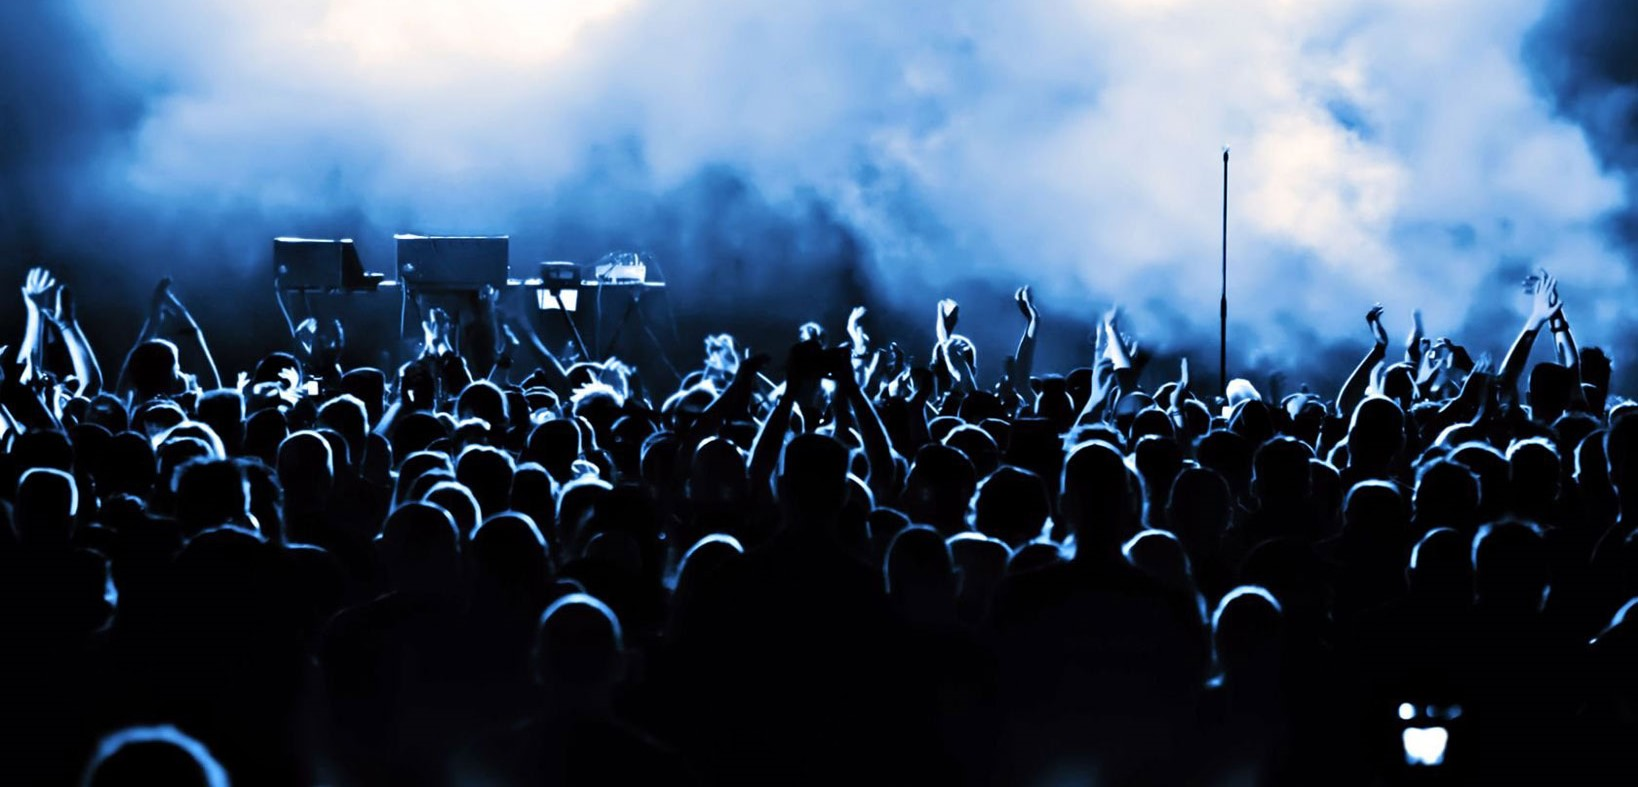
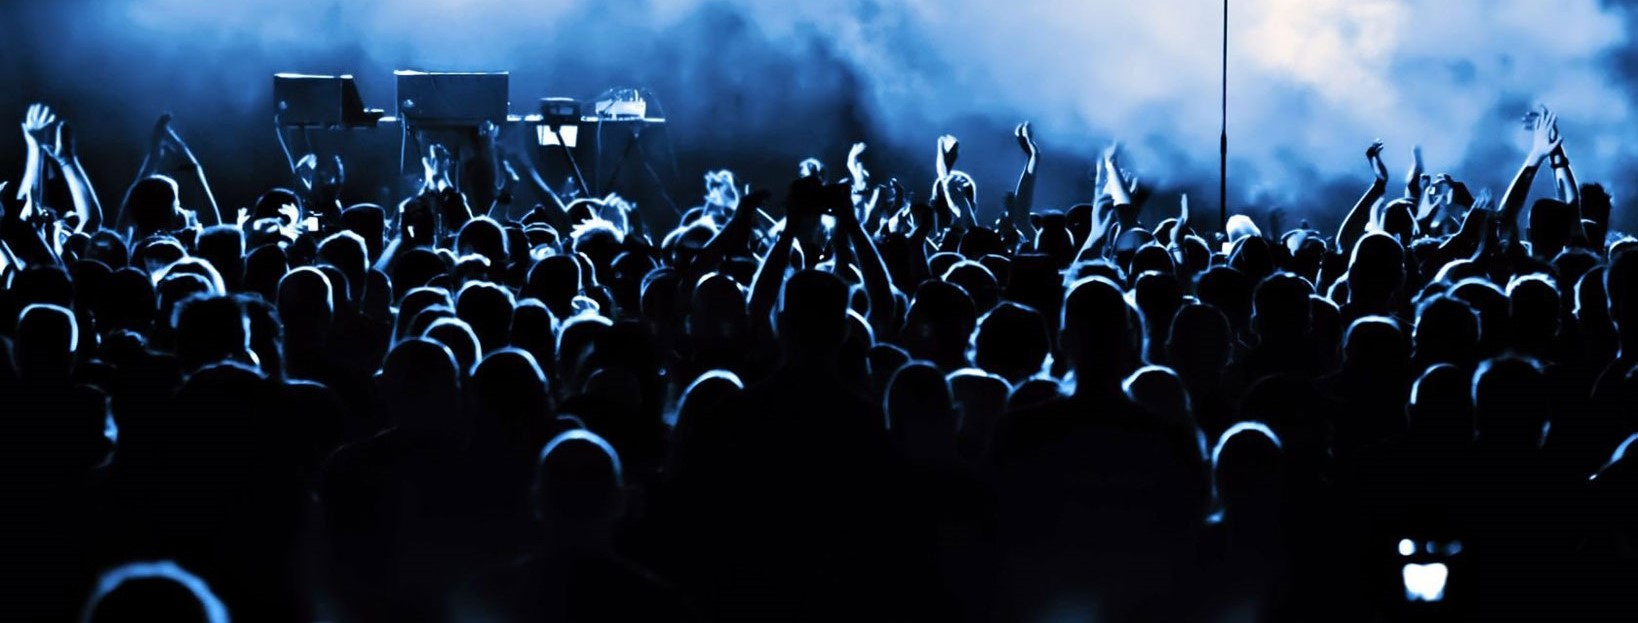
styling index page

diff --git a/index2.html b/index2.html
@@ -13,7 +13,7 @@
     <title>The Monkees</title>
 </head>
 
-<body class="background-index">
+<body>
     <header>
         <div class="container-fluid">
             <nav class="navigation">
@@ -36,18 +36,26 @@
                 </div>
             </nav>
         </div>
+        <div class="background-index">
+            <div class="col-12 band">
+                <img src="assets/images/index/logo.png" height=150px>
+            </div>
+        </div>
     </header>
     <section class="coteiner-fluid">
         <div class="container-fluid">
-            <div class="row no-gutters">
-                <div class="col-12 band"></div>
-            </div>
             <div class="row  no-gutters about">
                 <div class="col-12 col-md-5 bandimg"></div>
                 <div class="col-12 col-md-7 col-xl-5 about1">
                     <p><span>The Monkees</span></p>
-                    <p>We are an American Rock and Pop band originally active between 1966 and 1971, with reunion albums and tours in the decades that followed. We ware found in Los Angeles in 1965 by Bob Rafelson and Bert Schneider specifically for the
-                        American television series The Monkees, which aired from 1966 to 1968. Our music was initially supervised by producer Don Kirshner, backed by the songwriting duo of Tommy Boyce and Bobby Hart.</p>
+                    <p>We are an American Rock and Pop band originally active 
+                    between 1966 and 1971, with reunion albums and tours in 
+                    the decades that followed. We ware found in Los Angeles 
+                    in 1965 by Bob Rafelson and Bert Schneider specifically 
+                    for the American television series The Monkees, which 
+                    aired from 1966 to 1968. Our music was initially supervised 
+                    by producer Don Kirshner, backed by the songwriting duo of 
+                    Tommy Boyce and Bobby Hart.</p>
                 </div>
                 <div class="col-xl-2"></div>
             </div>
@@ -78,7 +86,7 @@
            
             <div class="row apps no-gutters">
                 <div class="col-6 col-sm-3">
-                    <img src="assets/images/index/android.png" width=80px height=80px>
+                    <a href="https://play.google.com/store/apps/details?id=net.monkees.monkees&hl=en" target="_blanc"><img src="assets/images/index/android.png" alt="Android Logo" width=80px height=80px></a>
                 </div>
                 <div class="d-none d-sm-block col-sm-6 appdesc">
                     <p>The official Monkees app gives you the latest
@@ -87,7 +95,7 @@
                     Facebook feed, tour dates and more.</p>
                 </div>
                 <div class="col-6 col-sm-3">
-                    <img src="assets/images/index/apple.png" width=80px height=80px>
+                    <a href="https://itunes.apple.com/ie/app/the-monkees/id604199445?mt=8" target="_blanc"><img src="assets/images/index/apple.png" alt="Apple Logo" width=80px height=80px></a>
                 </div>
             </div> 
             <div class="row no-gutters">

diff --git a/assets/css/style2.css b/assets/css/style2.css
@@ -2,6 +2,9 @@
 
 
 /*----------------------------------------------------------------------HEADER*/
+header{
+    background-color: black;
+}
 
 .list-inline-item:not(:last-child) {
     margin: 0;
@@ -103,20 +106,19 @@
 }
 
 /*----------------------------------------------------------------------HEADER*/
-
+section{
+    background-color: black;
+}
 /*-----------------------------------------------------------------------INDEX*/
 
 .background-index {
-    background: url("../images/index/band3.jpg");
+    background-image: url("../images/index/band3.jpg");
     background-repeat: no-repeat;
-    background-color: black;
-    height: 100%;
-    width: 100%;
-    background-size: 100%;
+    height: 280px;
+    background-size: cover;
 }
 
 .about {
-    background-color: black;
     padding-top: 50px;
     padding-left: 25px;
     padding-right: 25px;
@@ -124,7 +126,6 @@
 }
 
 .about2 {
-    background-color: black;
     padding-top: 20px;
     padding-left: 20px;
     padding-right: 20px;
@@ -167,13 +168,10 @@
 }
 
 .band {
-    background-image: url("../images/index/logo.png");
-    background-size: contain;
-    background-repeat: no-repeat;
-    background-position: center;
-    margin-top: 80px;
-    height: 180px;
-    margin-bottom: 10px;
+    padding-top: 100px;
+    text-align: center;
+    
+ 
 }
 
 .bandimg {
@@ -182,6 +180,7 @@
     background-repeat: no-repeat;
     background-position: center center;
     height: 200px;
+    margin: auto;
 
 }
 
@@ -194,11 +193,8 @@
     margin-top: 20px;
 }
 
-.cruebg {
-    background-color: black;
-}
-
 .apps {
+    margin-top: 60px;
     background-color: #980000;
     padding-bottom: 10px;
     padding-top: 10px;
@@ -206,6 +202,9 @@
 }
 
 .appfeature {
+   
+    padding-top: 60px;
+    padding-bottom: 50px;
     text-align: center;
     color: #BFBFBF;
     font-family: "Indie+Flower";
@@ -219,6 +218,11 @@
     font-family: "Indie+Flower";
     font-size: 18px;
     line-height: 20px;
+    margin: auto;
+}
+
+.appdesc p {
+    margin: auto;
 }
 
 /*-----------------------------------------------------------------------INDEX*/
@@ -349,7 +353,7 @@
 /*-----------------------------------------------------------------------SHOWS*/
 
 .background-shows {
-    background: url("../images/shows/showsbgsm.jpg");
+    background: url("../images/shows/showsbg.jpg");
     background-repeat: no-repeat;
     background-color: #000000;
     height: 100%;
@@ -435,7 +439,6 @@
 .world {
     padding-top: 100px;
     text-align: center;
-
 }
 
 .world img {
@@ -444,7 +447,6 @@
 }
 
 .form {
-    
     color: white;
     margin: 0px;
     background-color: black;
@@ -488,8 +490,11 @@ textarea {
 /*------------------------------------------------------------------------BOOK*/
 
 /*----------------------------------------------------------------------FOOTER*/
-
+footer{
+    background-color: black;
+}
 .social {
+    
     margin-bottom: 20px;
 }
 

diff --git a/book.html b/book.html
@@ -32,7 +32,7 @@
                             <a href="shows.html" class="hvr-grow-shadow"><i class="fas fa-globe-americas"></i><span>shows</span></a>
                         </div>
                         <div class="col-3 col-md-2 menucontainer list-inline-item">
-                            <a href="tracks.html" class="hvr-grow-shadow"><i class="fas fa-music"></i><span>book</span></a>
+                            <a href="tracks.html" class="hvr-grow-shadow"><i class="fas fa-music"></i><span>tracks</span></a>
                         </div>
                     </div>
                 </nav>
